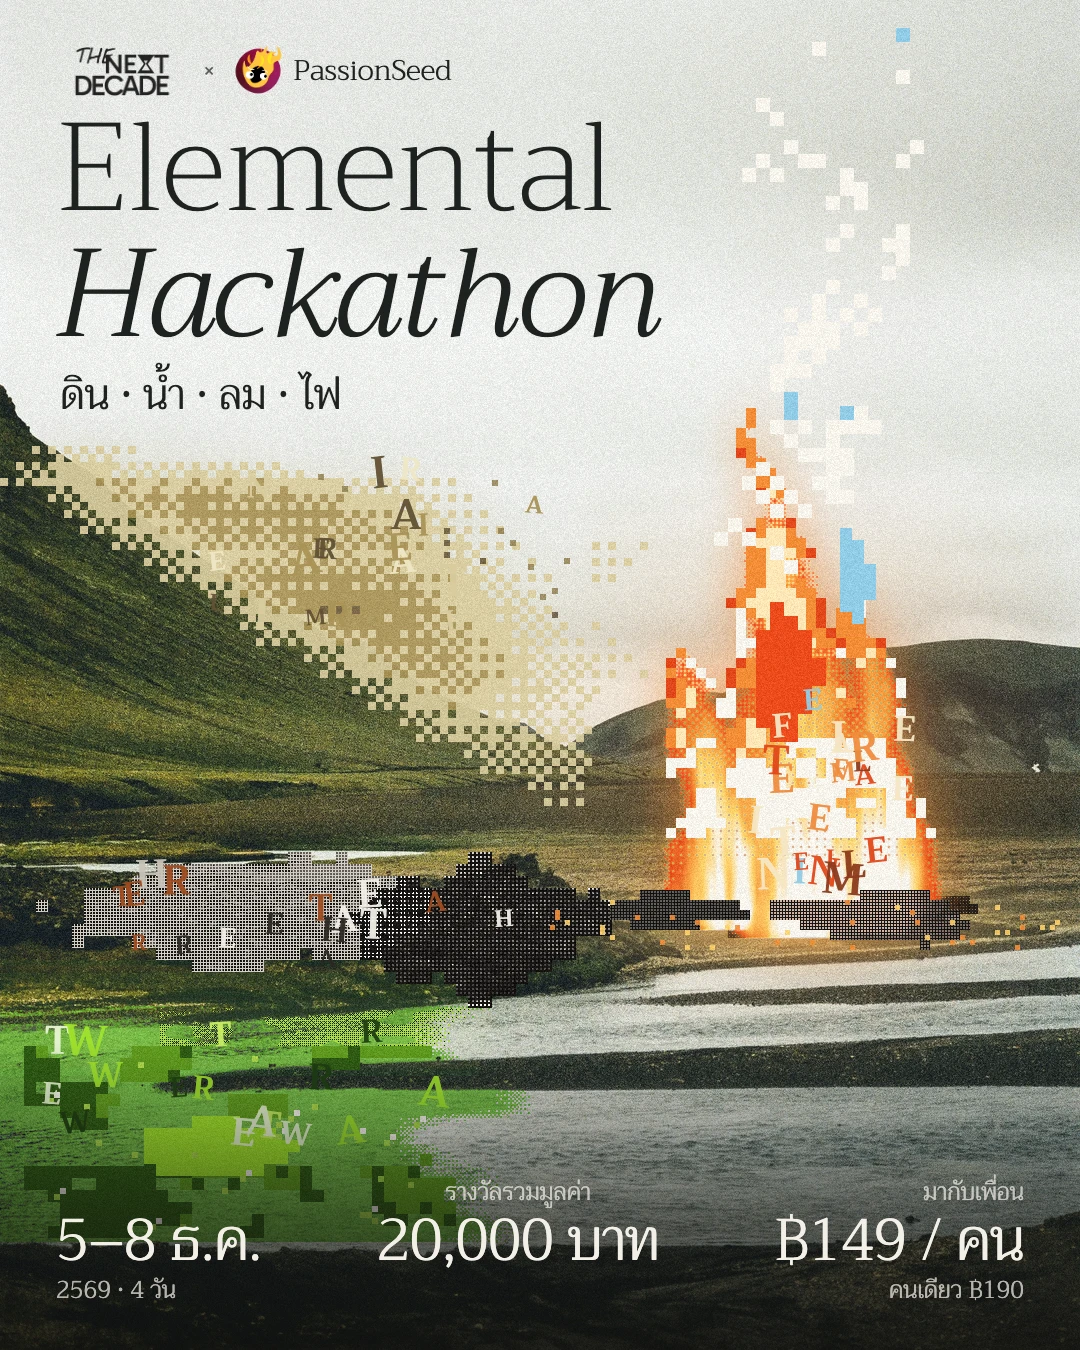
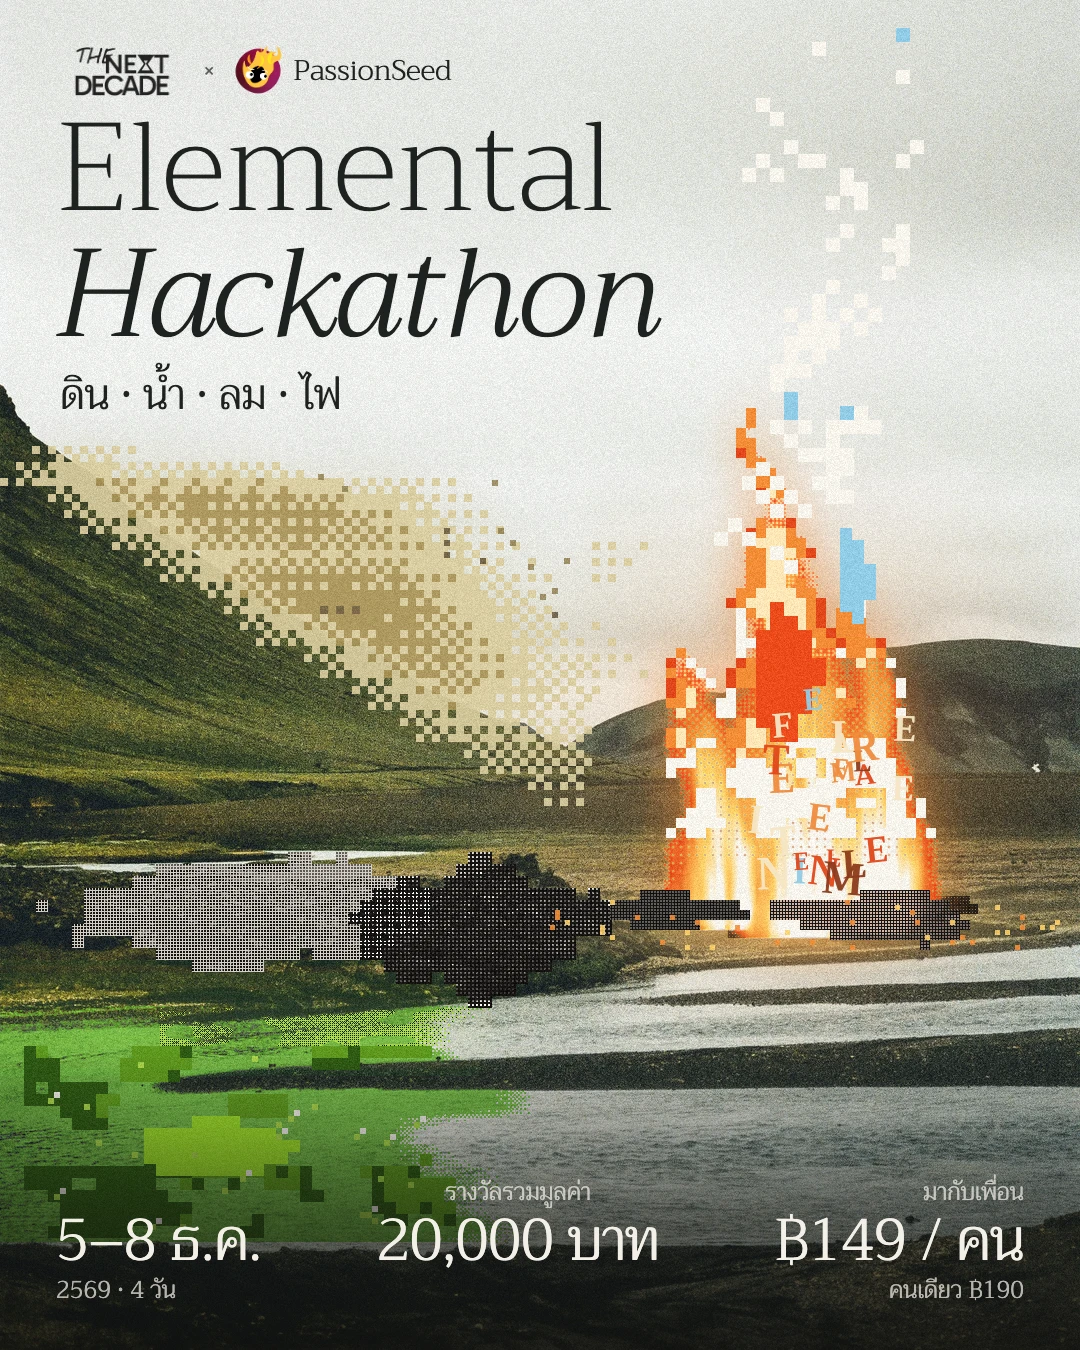
Revert "feat(hackathon): letters breaking out of every Elemental element"
This reverts commit b137ba5621e44a09a0eeaa9b8599da4c6757ceb0.

diff --git a/components/hackathon/poster/elemental/ElementalKeyPoster.tsx b/components/hackathon/poster/elemental/ElementalKeyPoster.tsx
@@ -28,36 +28,25 @@ const PLATES = {
   blue: "/hackathon/poster/elemental/plate-key-blue.png",
 } as const;
 
-/**
- * Serif capitals breaking out of each element, as if it were made of text:
- * the element's own name, in its own colours, scattered inside its area.
- */
-function elementLetters(word: string, box: [number, number, number, number], colours: string[], count: number, seed: number) {
-  let a = seed;
+/** Serif capitals breaking out of the fire, as if it were made of text. */
+function fireLetters() {
+  let a = 1234567;
   const r = () => {
     a = (a * 1103515245 + 12345) % 2147483648;
     return a / 2147483648;
   };
-  const [x0, y0, w, h] = box;
-  return Array.from({ length: count }, (_, i) => ({
+  const word = "ELEMENTALFIRE";
+  const colours = ["#f08a3c", "#f6e6c4", "#8a3a1c", "#8ecbe6", "#e2461b"];
+  return Array.from({ length: 24 }, (_, i) => ({
     ch: word[i % word.length],
-    x: x0 + r() * w,
-    y: y0 + r() * h,
+    x: 712 + r() * 190,
+    y: 700 + r() * 200,
     size: 22 + Math.round(r() * 22),
     fill: colours[Math.floor(r() * colours.length)],
     rotate: (r() - 0.5) * 16,
   }));
 }
-const LETTERS = [
-  // Fire: in the flame.
-  ...elementLetters("ELEMENTALFIRE", [712, 700, 190, 200], ["#f08a3c", "#f6e6c4", "#8a3a1c", "#8ecbe6", "#e2461b"], 24, 1234567),
-  // Air: in the smog over the ridge.
-  ...elementLetters("AIRAIRELEMENTAL", [200, 470, 360, 170], ["#efe7c4", "#a89155", "#5f4f33", "#d8cb9c"], 18, 7654321),
-  // Earth: in the waste on the bank.
-  ...elementLetters("EARTHEARTH", [100, 880, 480, 100], ["#f3efe6", "#9c4a1f", "#2b2824", "#c9c3b8"], 16, 2468135),
-  // Water: in the toxic green.
-  ...elementLetters("WATERWATER", [40, 1040, 380, 110], ["#e9f6d4", "#c8ee64", "#1f3d12", "#9fe22b"], 16, 1357913),
-];
+const LETTERS = fireLetters();
 
 /**
  * One of the three facts at the bottom: a small line, the big number, a
